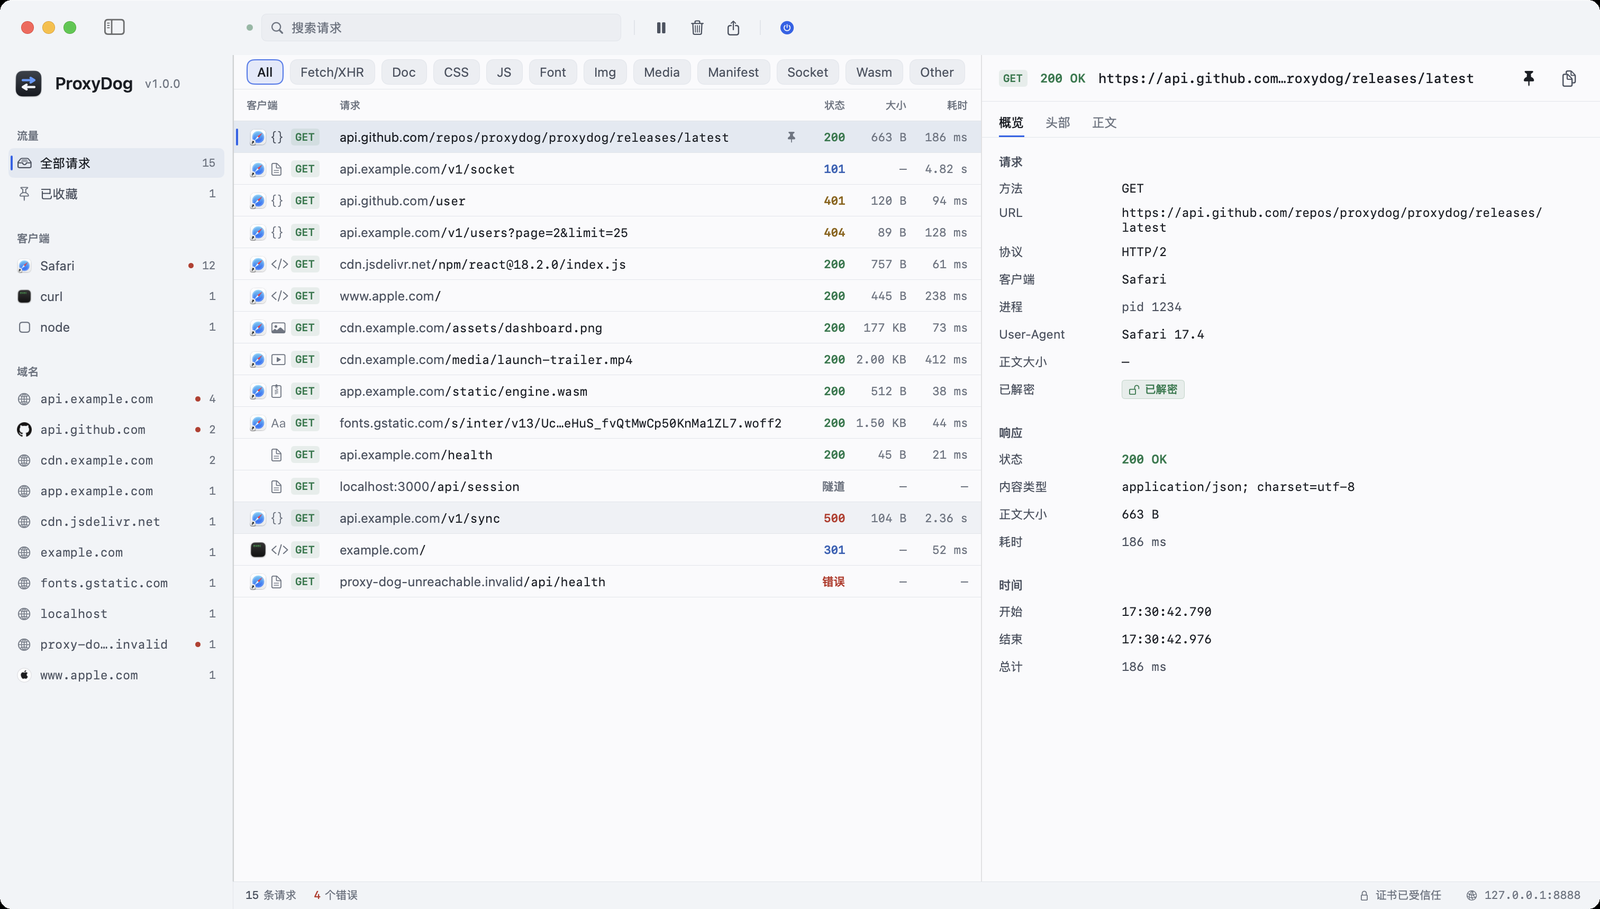
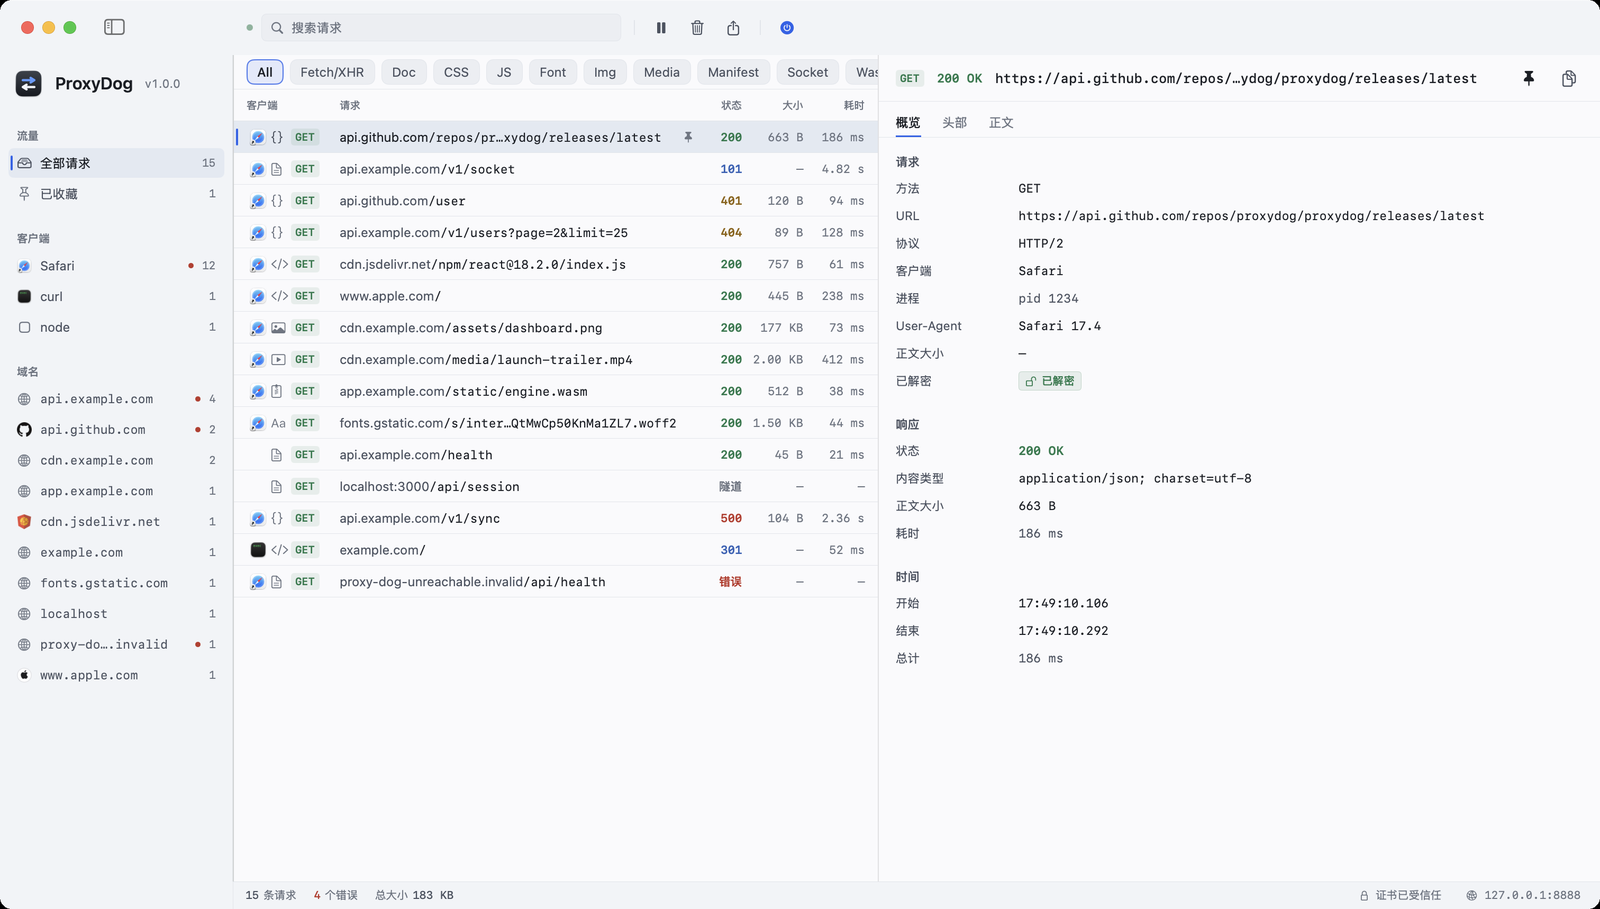
Show the total response size of the visible requests

diff --git a/Sources/ProxyDog/UI/StatusBarView.swift b/Sources/ProxyDog/UI/StatusBarView.swift
@@ -18,6 +18,8 @@ struct StatusBarView: View {
                 color: errorCount > 0 ? DSColor.red : DSColor.textMuted
             )
 
+            sizeItem
+
             if state.store.isPaused {
                 pausedChip
             }
@@ -64,6 +66,26 @@ struct StatusBarView: View {
     /// whole capture buffer.
     private var errorCount: Int {
         state.filteredRequests.lazy.filter(\.isFailure).count
+    }
+
+    /// Total response body size of the visible requests.
+    private var totalResponseBytes: Int {
+        state.filteredRequests.reduce(0) { $0 + $1.responseBytes }
+    }
+
+    /// Label-first variant of `countItem`; reads naturally for sizes ("总大小 12.3 MB").
+    private var sizeItem: some View {
+        HStack(spacing: DS.Space.x1) {
+            Text(String(localized: "Total size"))
+                .font(DS.Typography.ui(10.5))
+                .foregroundStyle(DSColor.textMuted)
+            Text(PDFormat.bytes(totalResponseBytes))
+                .font(DS.Typography.mono(10.5, .medium))
+                .foregroundStyle(DSColor.textSecondary)
+                .monospacedDigit()
+        }
+        .accessibilityElement(children: .combine)
+        .help(String(localized: "Total response body size of the visible requests"))
     }
 
     private var requestLabel: String {
